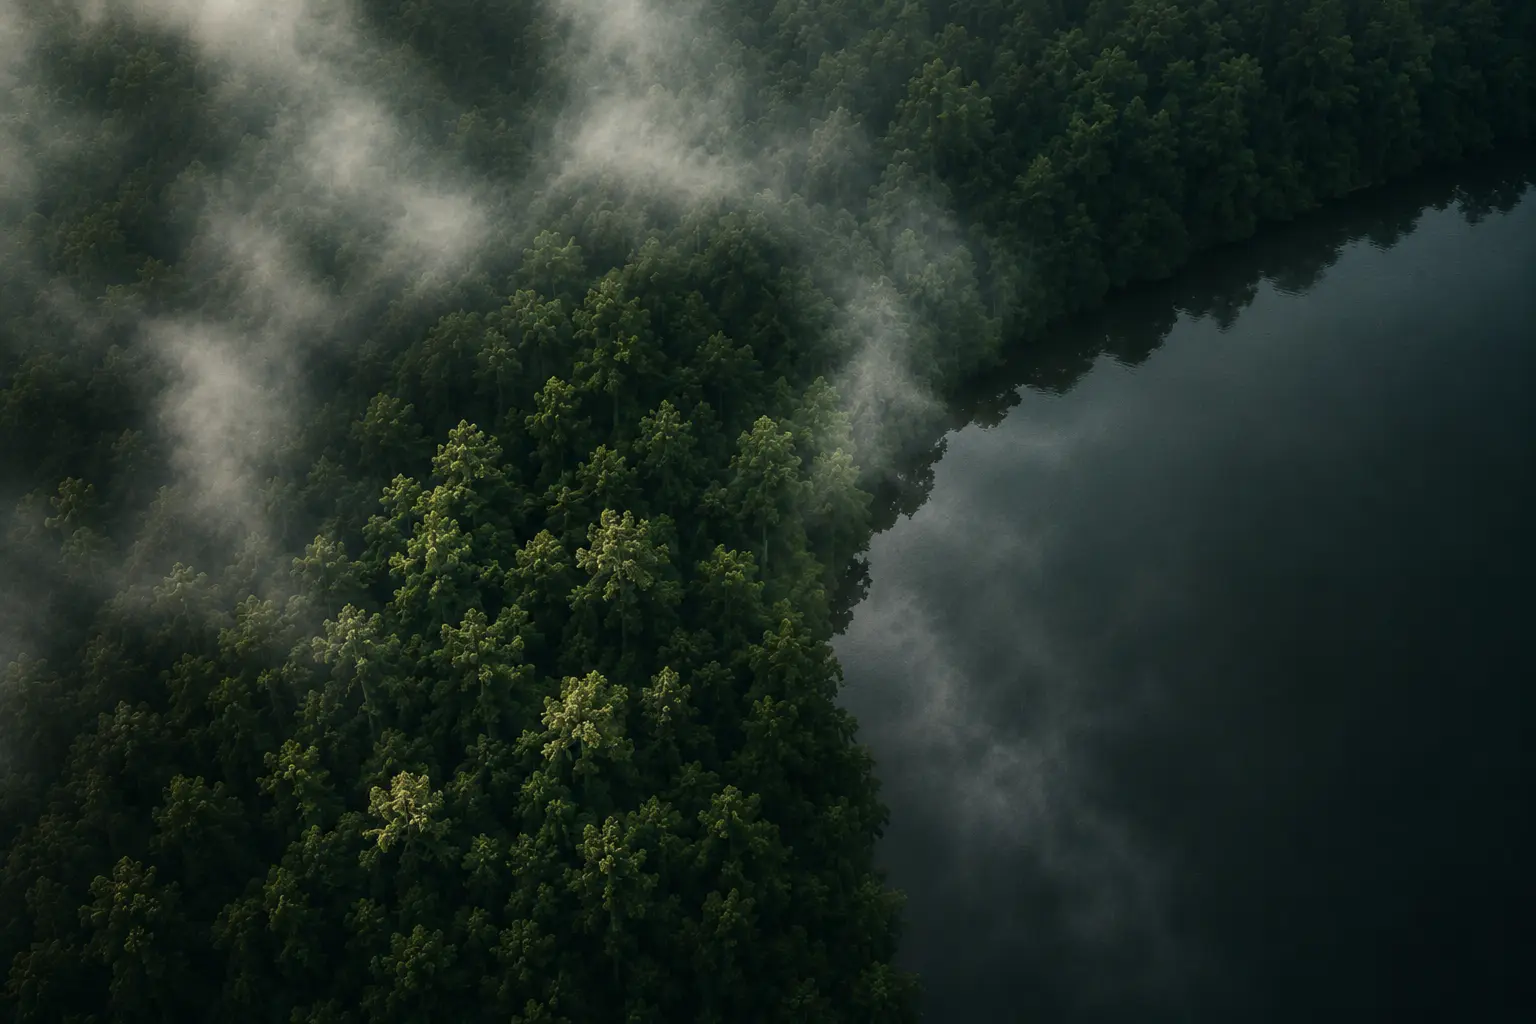
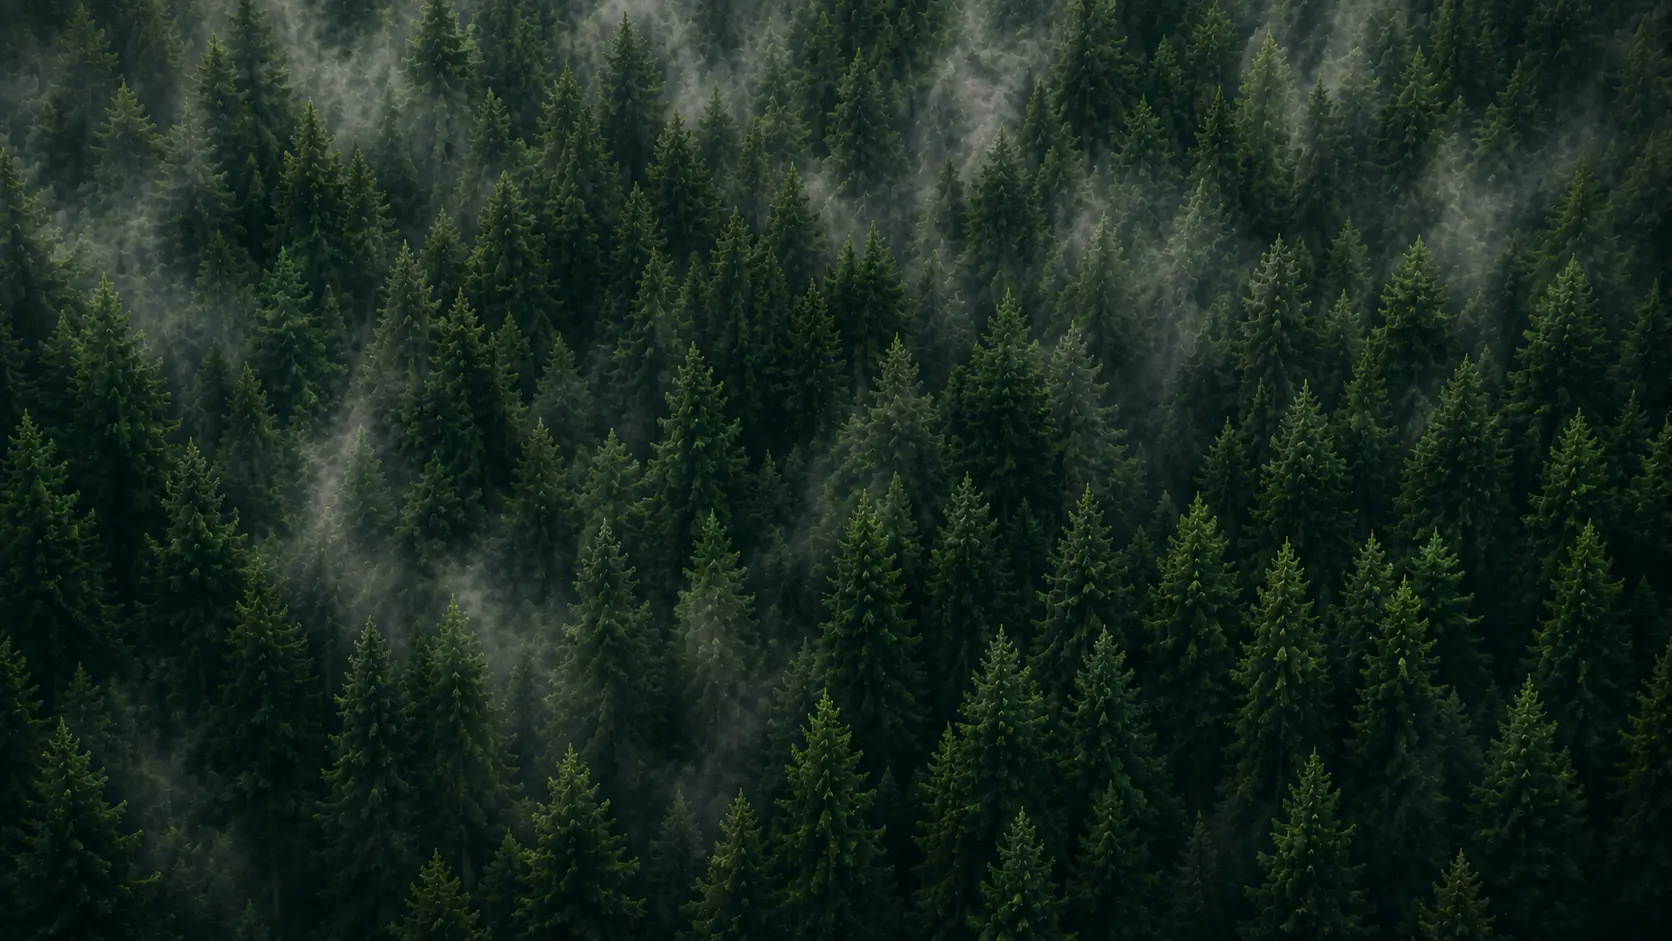
feat: home con foto de fondo, marca lateral y grilla de productos

diff --git a/app/page.tsx b/app/page.tsx
@@ -3,50 +3,52 @@ import Image from "next/image";
 
 export default function Home() {
   return (
-    <div className="lg:grid lg:grid-cols-2 lg:min-h-dvh relative">
-      {/* Imagen: fondo completo en mobile, mitad izquierda en desktop */}
-      <div className="absolute inset-0 lg:relative lg:inset-auto">
-        <Image
-          src="/bosque.webp"
-          alt=""
-          fill
-          priority
-          sizes="(max-width: 1024px) 100vw, 50vw"
-          className="object-cover"
-        />
-        <div
-          className="absolute inset-0 bg-gradient-to-t from-bg via-bg/80 to-bg/40
-                     lg:bg-gradient-to-r lg:from-transparent lg:via-transparent lg:to-bg"
-        />
-        {/* Logo sobre la foto, solo desktop */}
+    <div className="relative min-h-dvh flex flex-col">
+      {/* Foto de fondo, pantalla completa */}
+      <Image
+        src="/bosque.webp"
+        alt=""
+        fill
+        priority
+        sizes="100vw"
+        className="object-cover"
+      />
+      <div className="absolute inset-0 bg-gradient-to-t from-bg via-bg/85 to-bg/50
+                      lg:bg-gradient-to-r lg:from-bg/90 lg:via-bg/50 lg:to-bg/20" />
+
+      {/* Logo arriba a la derecha */}
+      <Link
+        href="/"
+        className="relative self-end p-6 lg:p-10 hover:opacity-80 transition-opacity"
+      >
         <Image
           src="/coralia.avif"
           alt="Coralia Environmental"
-          width={96}
-          height={107}
-          className="hidden lg:block absolute top-10 left-10 z-10"
+          width={90}
+          height={101}
+          className="h-auto"
         />
-      </div>
+      </Link>
 
       {/* Contenido */}
-      <main className="relative flex flex-col justify-center px-6 py-12 lg:px-16 xl:px-20 min-h-dvh lg:min-h-0">
-        <div className="max-w-md w-full mx-auto lg:mx-0 lg:max-w-2xl">
-          <header className="mb-10 lg:mb-14">
-            <p className="text-accent text-sm tracking-widest uppercase mb-4">
-              Coralia
-            </p>
-            <h1 className="text-4xl lg:text-6xl xl:text-7xl font-semibold leading-[1.05] text-cream">
-              Huella de carbono
-              <br />
-              de producto
+      <main className="relative flex-1 flex flex-col justify-center px-6 pb-12 lg:px-16 xl:px-20">
+        <div className="w-full max-w-md mx-auto lg:mx-0 lg:max-w-3xl">
+          <header className="mb-8 lg:mb-10">
+            <h1 className="text-4xl lg:text-5xl xl:text-6xl font-semibold leading-[1.1] text-cream">
+              Medí el impacto{" "}
+              <span className="text-accent-strong">ambiental</span> de tus
+              productos y tomá decisiones con información real.
             </h1>
-            <p className="text-muted mt-5 lg:mt-7 lg:text-xl leading-relaxed">
-              Medí el impacto ambiental de tus productos y tomá decisiones con
-              información real.
+            <p className="text-muted mt-6 lg:mt-8 lg:text-lg leading-relaxed lg:max-w-md">
+              Calculá y gestioná la huella ambiental de tus productos de forma
+              simple y confiable.
             </p>
           </header>
 
-          <nav className="space-y-4 lg:space-y-5" aria-label="Seleccionar rol">
+          <nav
+            className="grid gap-4 sm:grid-cols-2 lg:max-w-3xl"
+            aria-label="Seleccionar rol"
+          >
             <RoleCard
               href="/empresa"
               title="Soy empresa"
@@ -80,35 +82,35 @@ function RoleCard({
   return (
     <Link
       href={href}
-      className="group flex items-center gap-5 bg-surface/70 backdrop-blur-md
-                 border border-line rounded-card p-6 lg:p-10
+      className="group flex items-start gap-4 bg-surface/70 backdrop-blur-md
+                 border border-line rounded-card p-5 lg:p-6
                  transition-colors hover:bg-surface-2/80
                  focus-visible:outline-2 focus-visible:outline-accent-strong"
     >
       <span
         aria-hidden="true"
-        className="hidden lg:grid shrink-0 place-items-center w-16 h-16 rounded-full
+        className="hidden lg:grid shrink-0 place-items-center w-12 h-12 rounded-full
                    border border-accent/30 text-accent"
       >
         {icon}
       </span>
 
       <span className="flex-1">
-        <span className="block text-xl lg:text-2xl font-medium text-cream mb-1">
+        <span className="block text-lg font-medium text-cream mb-0.5">
           {title}
         </span>
-        <span className="block text-muted text-sm lg:text-base leading-relaxed lg:max-w-xs">
+        <span className="block text-muted text-sm leading-relaxed">
           {description}
         </span>
       </span>
 
       <span
         aria-hidden="true"
-        className="shrink-0 grid place-items-center w-10 h-10 lg:w-12 lg:h-12
+        className="shrink-0 grid place-items-center w-10 h-10
                    rounded-full bg-accent-strong text-bg
                    transition-transform group-hover:translate-x-1"
       >
-        <svg width="18" height="18" viewBox="0 0 24 24" fill="none" stroke="currentColor" strokeWidth="2" strokeLinecap="round" strokeLinejoin="round">
+        <svg width="16" height="16" viewBox="0 0 24 24" fill="none" stroke="currentColor" strokeWidth="2" strokeLinecap="round" strokeLinejoin="round">
           <line x1="5" y1="12" x2="19" y2="12" />
           <polyline points="12 5 19 12 12 19" />
         </svg>
@@ -119,7 +121,7 @@ function RoleCard({
 
 function BuildingIcon() {
   return (
-    <svg width="28" height="28" viewBox="0 0 24 24" fill="none" stroke="currentColor" strokeWidth="1.5" strokeLinecap="round" strokeLinejoin="round">
+    <svg width="22" height="22" viewBox="0 0 24 24" fill="none" stroke="currentColor" strokeWidth="1.5" strokeLinecap="round" strokeLinejoin="round">
       <rect x="4" y="3" width="11" height="18" rx="1" />
       <line x1="7.5" y1="7" x2="8.5" y2="7" />
       <line x1="11" y1="7" x2="12" y2="7" />
@@ -133,7 +135,7 @@ function BuildingIcon() {
 
 function PersonIcon() {
   return (
-    <svg width="28" height="28" viewBox="0 0 24 24" fill="none" stroke="currentColor" strokeWidth="1.5" strokeLinecap="round" strokeLinejoin="round">
+    <svg width="22" height="22" viewBox="0 0 24 24" fill="none" stroke="currentColor" strokeWidth="1.5" strokeLinecap="round" strokeLinejoin="round">
       <circle cx="11" cy="8" r="3.5" />
       <path d="M4.5 20a6.5 6.5 0 0 1 13 0" />
       <path d="M19 14c1.7 0 3-1.3 3-3 0-1.4-1.1-2.5-3-2.5V14z" />

diff --git a/lib/queries.ts b/lib/queries.ts
@@ -1,4 +1,5 @@
 import { supabase } from "./supabase";
+import { calculateFootprint } from "./carbon";
 import type { EmissionFactor, Product, ProductItem, Review } from "./types";
 
 export async function getEmissionFactors(): Promise<EmissionFactor[]> {
@@ -55,4 +56,45 @@ export async function getLastReview(productId: string): Promise<Review | null> {
 
     if (error) throw new Error(`No se pudo leer la revisión: ${error.message}`);
     return data;
+}
+
+type ProductWithFootprint = Product & { footprint: number };
+
+export async function getProductsWithFootprint(): Promise<ProductWithFootprint[]> {
+    const { data, error } = await supabase
+        .from("products")
+        .select("*, product_items(type, grams, factor_snapshot, emission_factors(name))")
+        .order("created_at", { ascending: false });
+
+    if (error)
+        throw new Error(`No se pudieron leer los productos: ${error.message}`);
+
+    return (data ?? []).map((product) => {
+        const { product_items, ...rest } = product;
+
+        const items = (product_items ?? []).map((item: {
+            type: "ingredient" | "packaging";
+            grams: number;
+            factor_snapshot: number;
+            emission_factors: { name: string } | { name: string }[] | null;
+        }) => {
+            const factor = Array.isArray(item.emission_factors)
+                ? item.emission_factors[0]
+                : item.emission_factors;
+
+            return {
+                name: factor?.name ?? "Desconocido",
+                type: item.type,
+                grams: item.grams,
+                factor: item.factor_snapshot,
+            };
+        });
+
+        const result = calculateFootprint(items, {
+            kwhPerBatch: rest.kwh_per_batch ?? 0,
+            unitsPerBatch: rest.units_per_batch ?? 0,
+        });
+
+        return { ...rest, footprint: result.total } as ProductWithFootprint;
+    });
 }

diff --git a/app/empresa/layout.tsx b/app/empresa/layout.tsx
@@ -1,0 +1,24 @@
+import Image from "next/image";
+import { SideBrand } from "@/components/SideBrand";
+
+export default function EmpresaLayout({
+    children,
+}: {
+    children: React.ReactNode;
+}) {
+    return (
+        <div className="flex-1 flex relative">
+            <Image
+                src="/hojas.webp"
+                alt=""
+                fill
+                sizes="100vw"
+                className="object-cover opacity-20 pointer-events-none"
+            />
+            <div className="relative flex flex-1">
+                <SideBrand />
+                <div className="flex-1 flex flex-col min-w-0">{children}</div>
+            </div>
+        </div>
+    );
+}

diff --git a/components/SideBrand.tsx b/components/SideBrand.tsx
@@ -1,0 +1,19 @@
+import Image from "next/image";
+import Link from "next/link";
+
+export function SideBrand() {
+    return (
+        <aside className="hidden lg:flex w-[260px] shrink-0 flex-col
+                      min-h-dvh sticky top-0 self-start
+                      border-r border-line">
+            <Link href="/" className="p-8 hover:opacity-80 transition-opacity">
+                <Image
+                    src="/coralia.avif"
+                    alt="Coralia Environmental — ir al inicio"
+                    width={110}
+                    height={123}
+                />
+            </Link>
+        </aside>
+    );
+}

diff --git a/app/consultor/layout.tsx b/app/consultor/layout.tsx
@@ -1,0 +1,14 @@
+import { SideBrand } from "@/components/SideBrand";
+
+export default function ConsultorLayout({
+    children,
+}: {
+    children: React.ReactNode;
+}) {
+    return (
+        <div className="flex-1 flex">
+            <SideBrand />
+            <div className="flex-1 flex flex-col min-w-0">{children}</div>
+        </div>
+    );
+}
